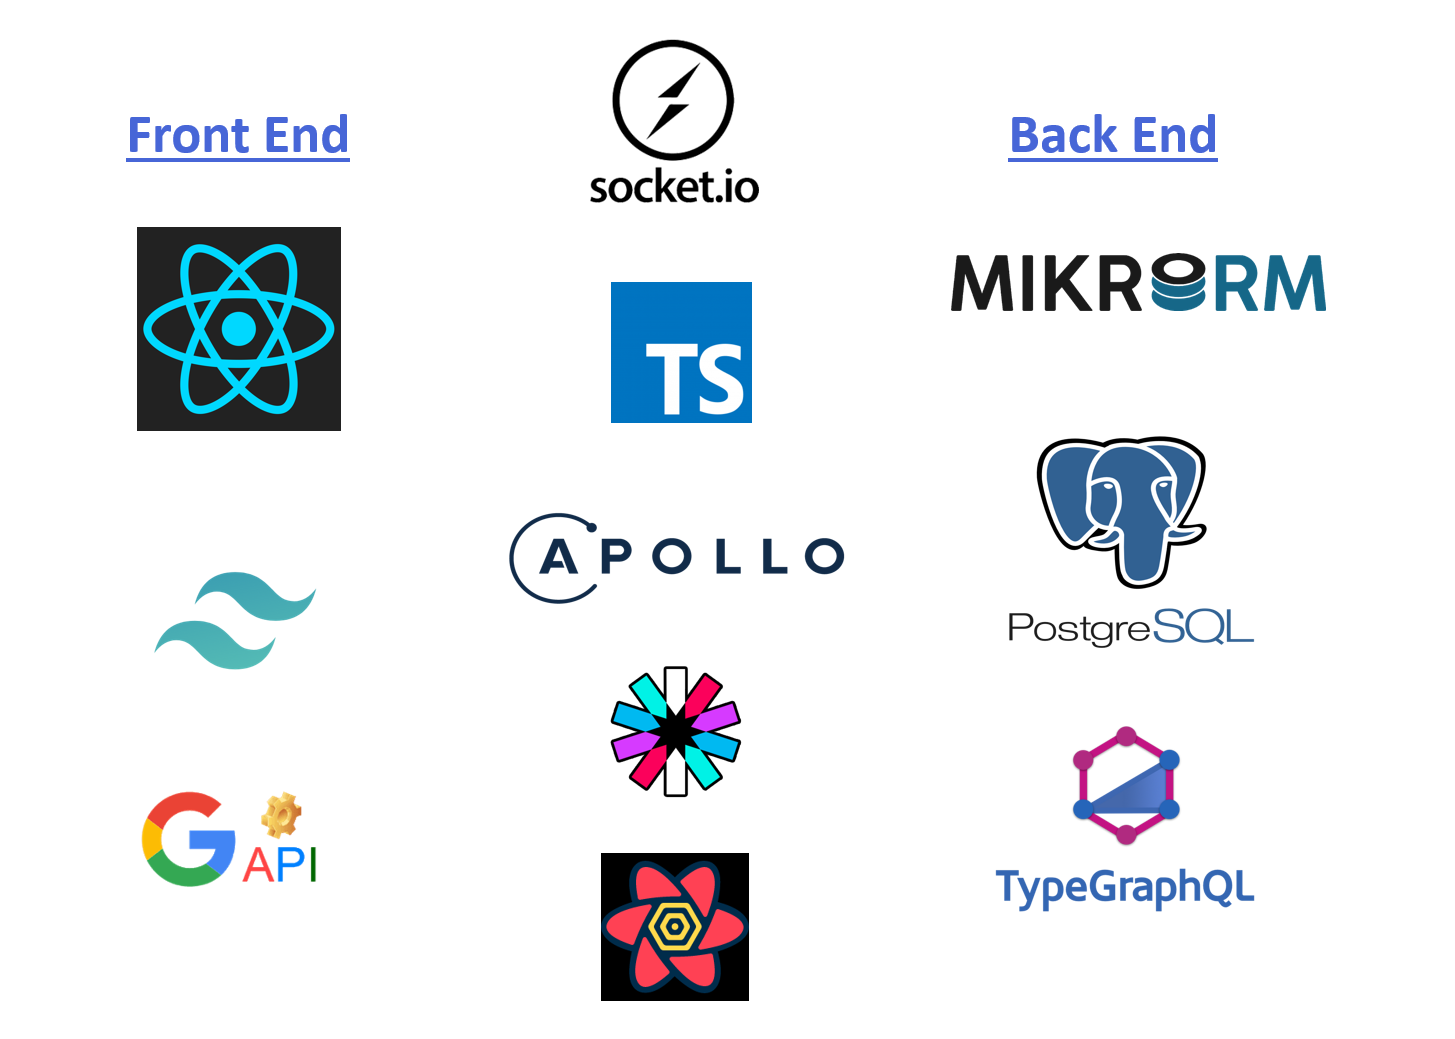
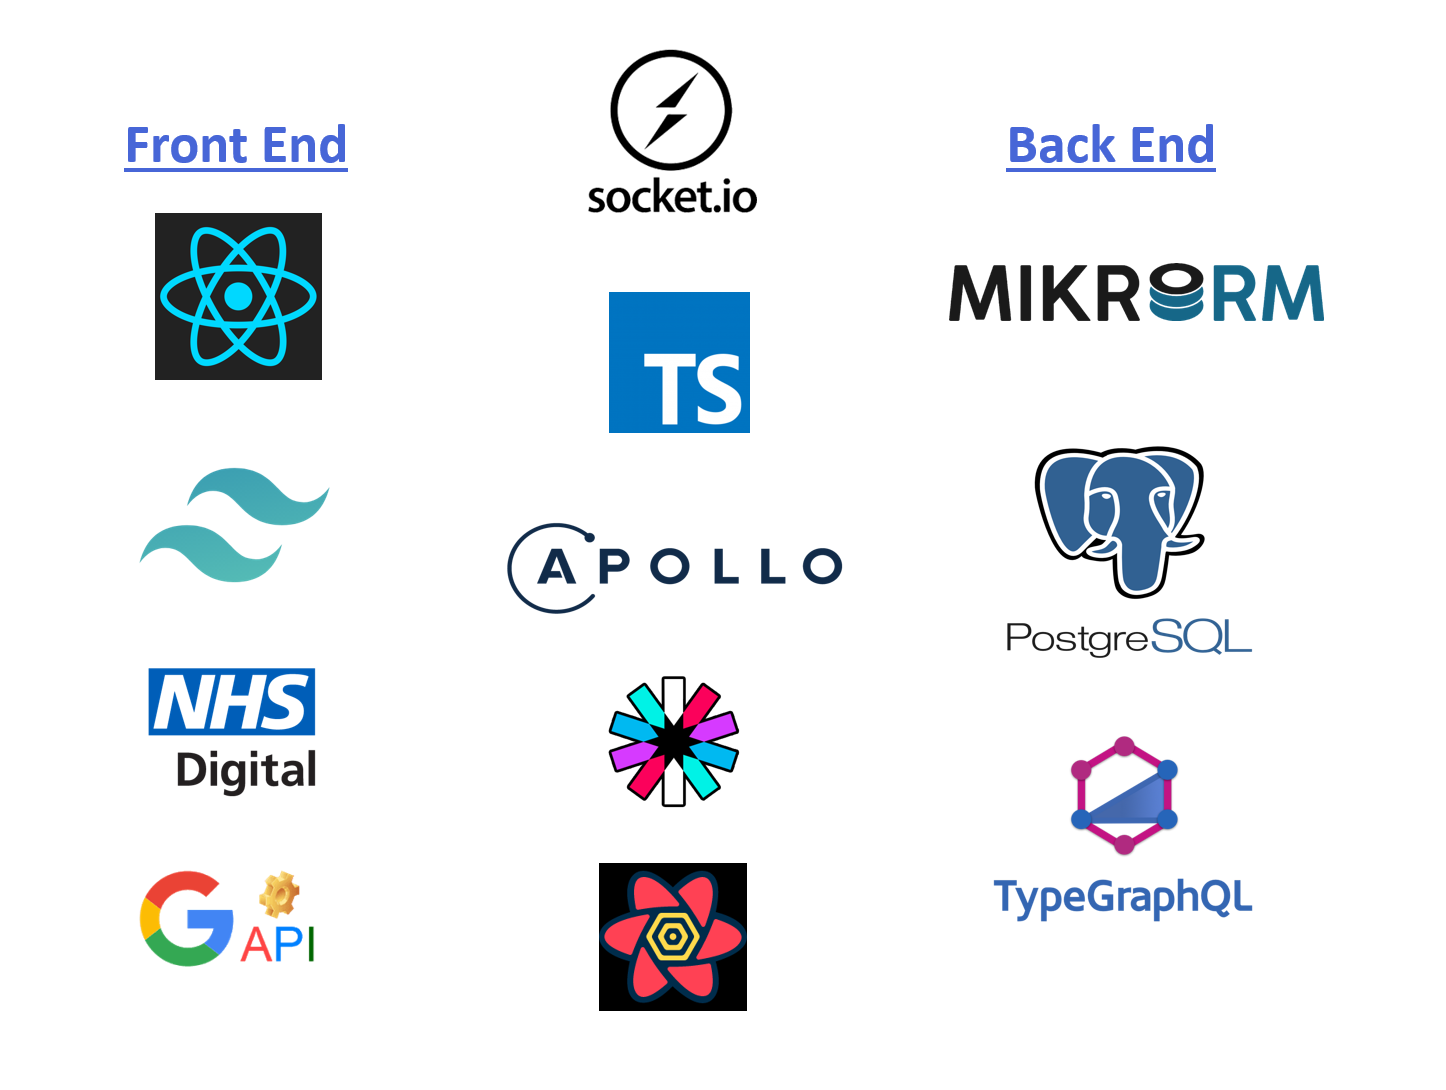
Adding breaklines

diff --git a/README.md b/README.md
@@ -32,25 +32,30 @@ alt="Conversation demo" style="padding-top: 1rem;"/>
   alt="Arabic demo" style="padding-top: 1rem;"/>
 </div>
 
+
 - Share translated details of your symptoms with your doctor ahead of your consultation.
 <div style="width: 100%; display:flex; justify-content:space-evenly; flex-wrap: wrap; padding-bottom: 1rem;">
   <img src="./readme-assets/consultation-demo.gif" width="33%"
   alt="Symptoms input demo" style="padding-top: 1rem;"/>
 </div>
+<br>
 
 - Share live-translated messages with your doctor, including having messages read to you via a text-to-speech option
+<br>
 
 - Locate nearby health service providers
 <div style="width: 100%; display:flex; justify-content:space-evenly; flex-wrap: wrap; padding-bottom: 1rem;">
   <img src="./readme-assets/services-demo.gif" width="33%"
   alt="Location service demo" style="padding-top: 1rem;"/>
 </div>
+<br>
 
 - Easily get an explanation of medical terms in your language
 <div style="width: 100%; display:flex; justify-content:space-evenly; flex-wrap: wrap; padding-bottom: 1rem;">
   <img src="./readme-assets/translate-terms-demo.gif" width="33%"
   alt="Translate terms demo" style="padding-top: 1rem;"/>
 </div>
+<br>
 
 - Receive and keep track of prescriptions
 <div style="width: 100%; display:flex; justify-content:space-evenly; flex-wrap: wrap; padding-bottom: 1rem;">
@@ -68,6 +73,7 @@ alt="Conversation demo" style="padding-top: 1rem;"/>
  ### Front end:
 - React - https://reactjs.org/
 - Tailwind CSS - https://tailwindcss.com/
+- NHS API - https://digital.nhs.uk/
 - Google APIs ([Google Translate](https://cloud.google.com/translate) + [Google Text-to-Speech](https://cloud.google.com/text-to-speech))
 - React Query - https://react-query.tanstack.com/
 ### Back end:
